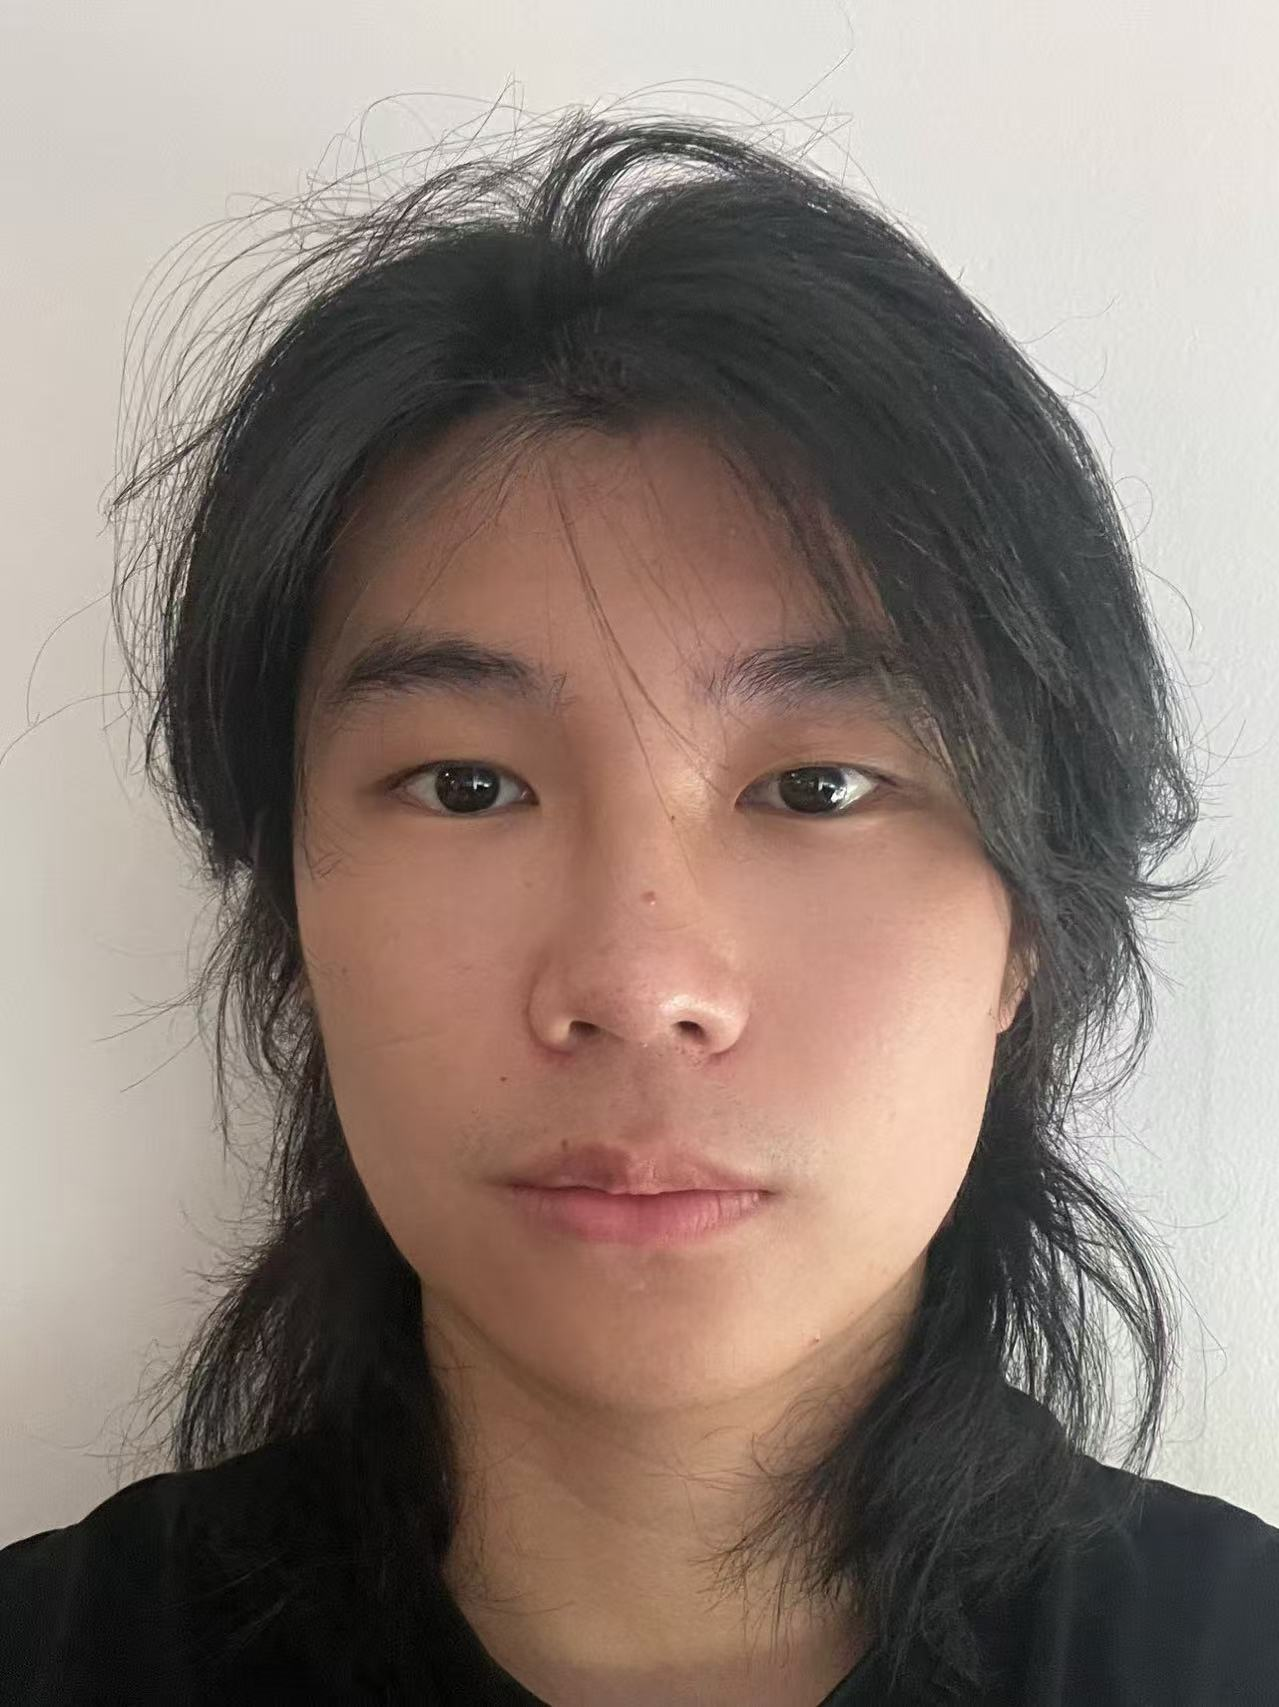
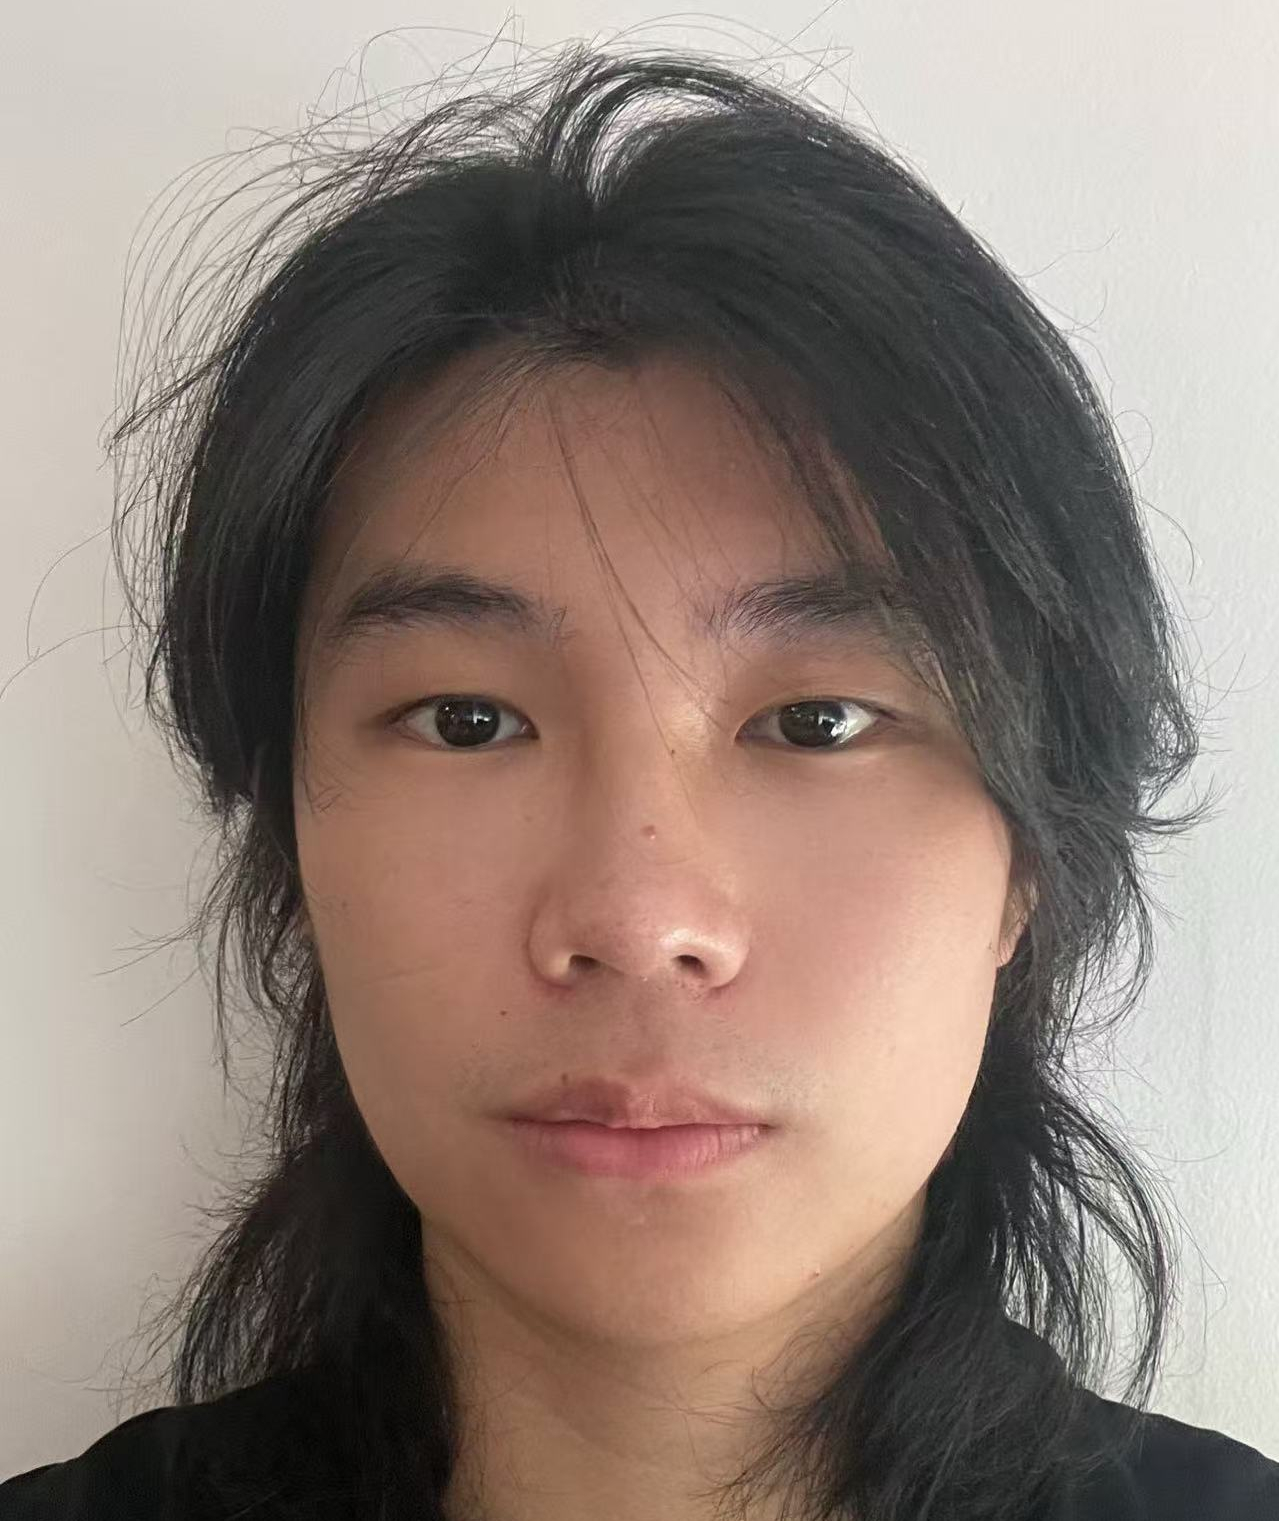
misc: margin

diff --git a/assets/css/_custom.scss b/assets/css/_custom.scss
@@ -11,7 +11,11 @@
         .home-profile {
             .home-avatar {
                 img {
+                    height: 12rem;
                     width: 12rem;
+                    object-fit: contain;
+                    border-radius: 50%;
+                    background-color: #fff;
                 }
             }
 
